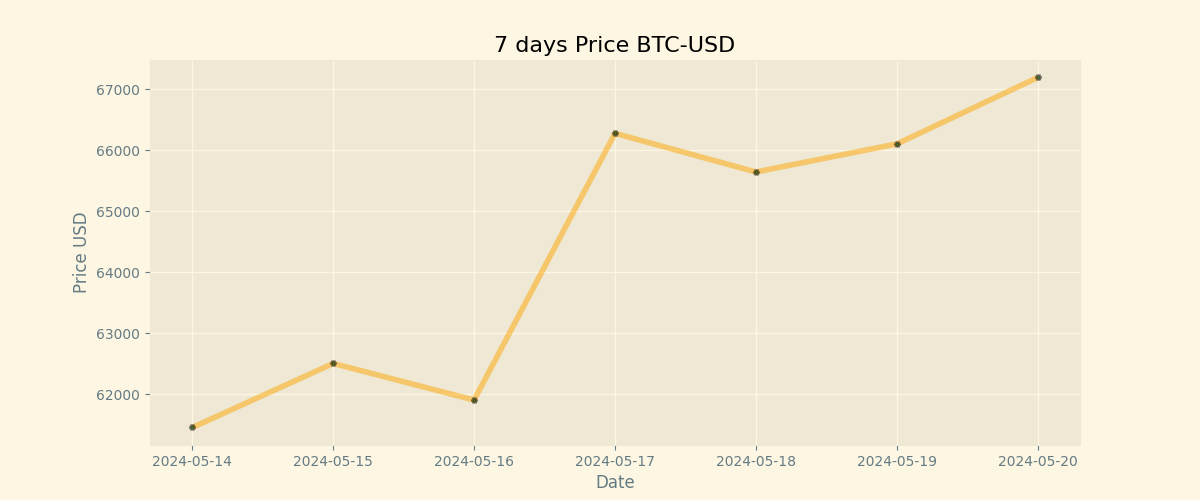
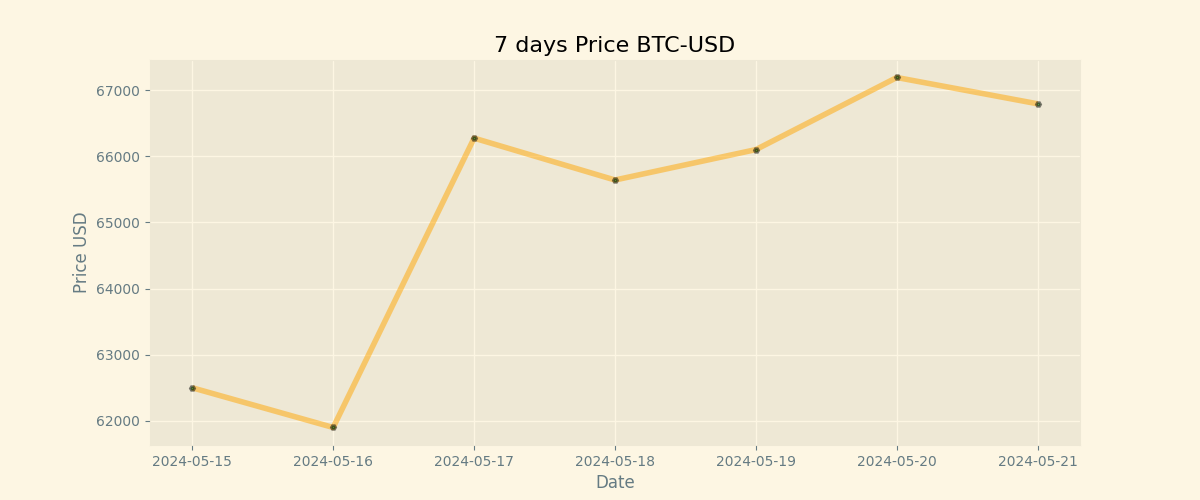
Duty Updates 2024-05-21

diff --git a/README.md b/README.md
@@ -9,8 +9,8 @@
 
 | Currency | Price           |
 | -------- | --------------- |
-| **BTC**  | **$ 67189.46** |
-| **ETH**  | **$ 3094.3** |
+| **BTC**  | **$ 66791.6** |
+| **ETH**  | **$ 3106.57** |
 
 ## BTC chart
 
